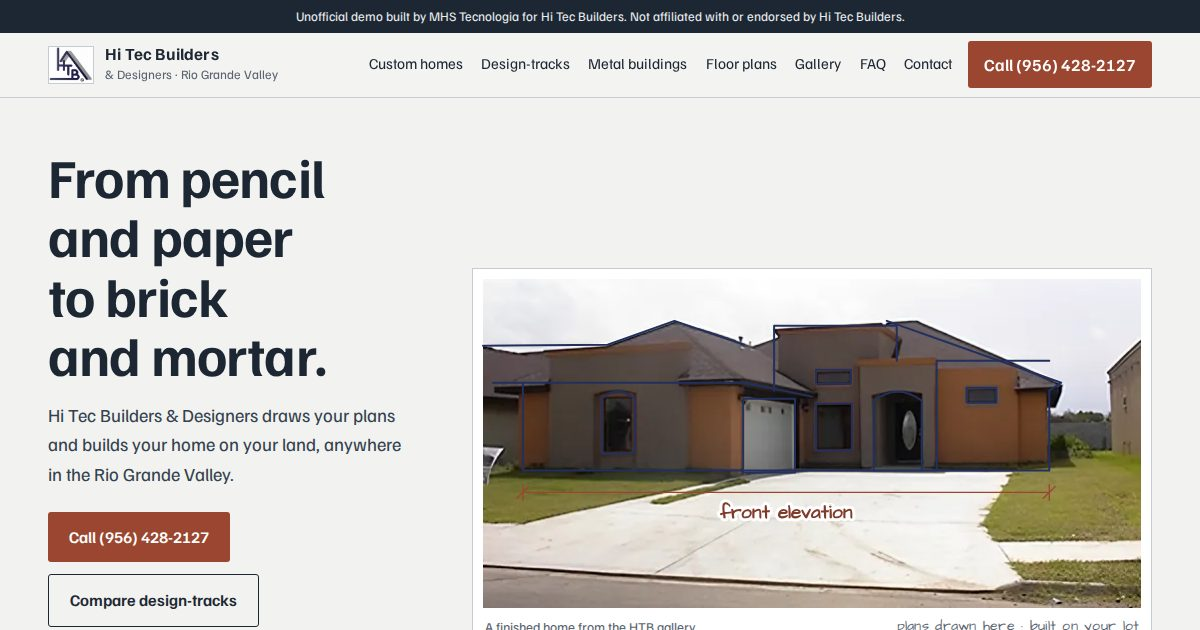
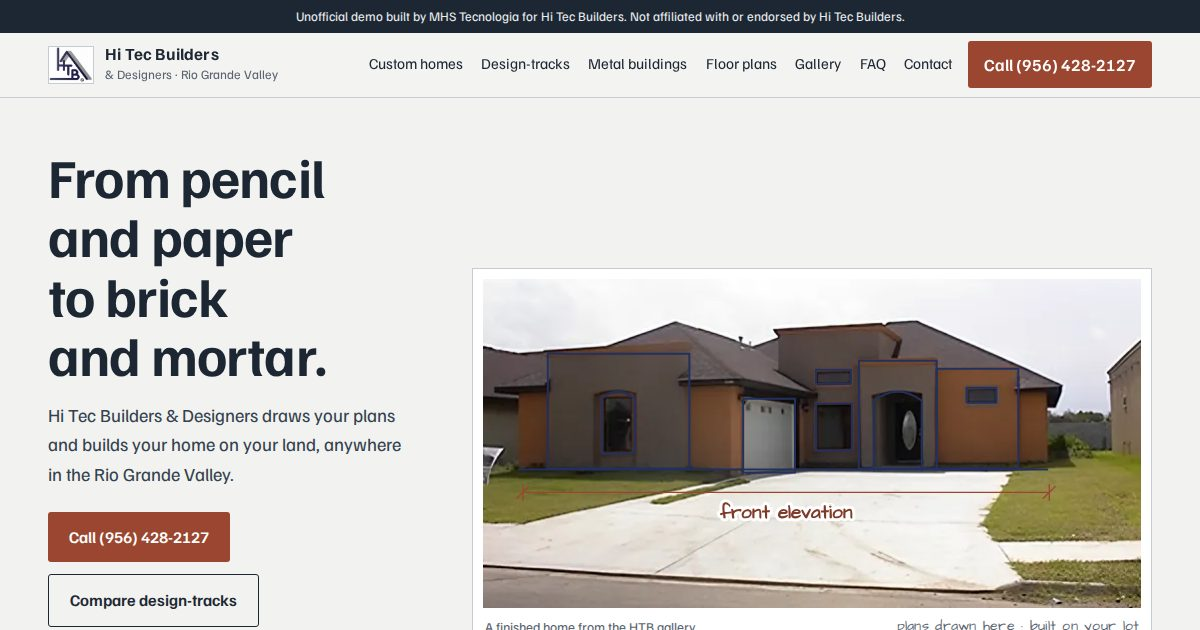
Previews: 92 ativos

diff --git a/hitec-builders-harlingen-tx/index.html b/hitec-builders-harlingen-tx/index.html
@@ -274,11 +274,10 @@ footer .fbrand img{width:52px}
   </ul>
  </div>
  <figure class="sheet"><div class="frame"><img src="img/hero-660.webp" srcset="img/hero-480.webp 480w, img/hero-660.webp 660w" sizes="(max-width: 860px) calc(100vw - 2rem), 660px" width="660" height="330" alt="Finished two-tone stucco home with an arched entry and a two-car garage, from the HTB gallery" fetchpriority="high"><svg class="trace" viewBox="0 0 660 330" preserveAspectRatio="xMidYMid meet" aria-hidden="true">
- <path pathLength="1" d="M0 67 L125 66 L192 42 L262 66"/>
- <path pathLength="1" d="M292 112 V47 H415 V82"/>
- <path pathLength="1" d="M405 42 L580 104 L568 112"/>
- <path pathLength="1" d="M10 104 H262 L330 118"/>
- <path pathLength="1" d="M40 192 V104 M568 112 V192 M40 192 H568 M455 192 V82 H568"/>
+ <rect pathLength="1" x="65" y="75" width="142" height="115"/>
+ <rect pathLength="1" x="377" y="82" width="78" height="108"/>
+ <rect pathLength="1" x="455" y="90" width="82" height="100"/>
+ <path pathLength="1" d="M36 191 H566"/>
  <rect pathLength="1" x="261" y="120" width="52" height="74"/>
  <path pathLength="1" d="M119 175 V120 Q135 106 152 120 V175 Z"/>
  <rect pathLength="1" x="334" y="125" width="36" height="47"/>
